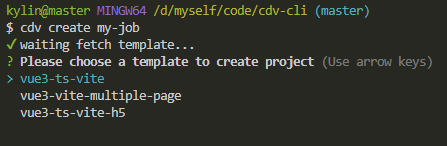
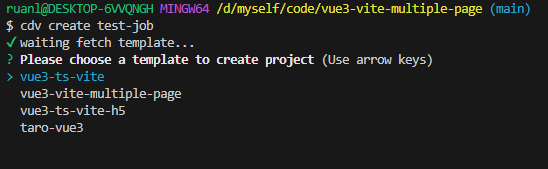
docs: 更新文档

Changed region(s): [[0.0, 0.0, 0.9888, 0.7123], [0.0291, 0.7397, 0.2908, 0.8219]]

diff --git a/README.md b/README.md
@@ -4,7 +4,12 @@
 
 ## 脚手架安装
 
-本项目支持通过`cdv-cli`脚手架来安装，脚手架目前提供 vue3 单页开发模板，vue3 多页开发模板，vue3 移动端 H5 开发模板。
+本项目支持通过`cdv-cli`脚手架来安装，脚手架目前提供:
+
+- vue3 单页开发模板
+- vue3 多页开发模板
+- vue3 移动端 H5 开发模板
+- vue3 + taro3 移动多端开发模板
 
 [cdv-cli 脚手架使用方法点击查看](https://github.com/ruanlin-kylin/cdv-cli)
 
